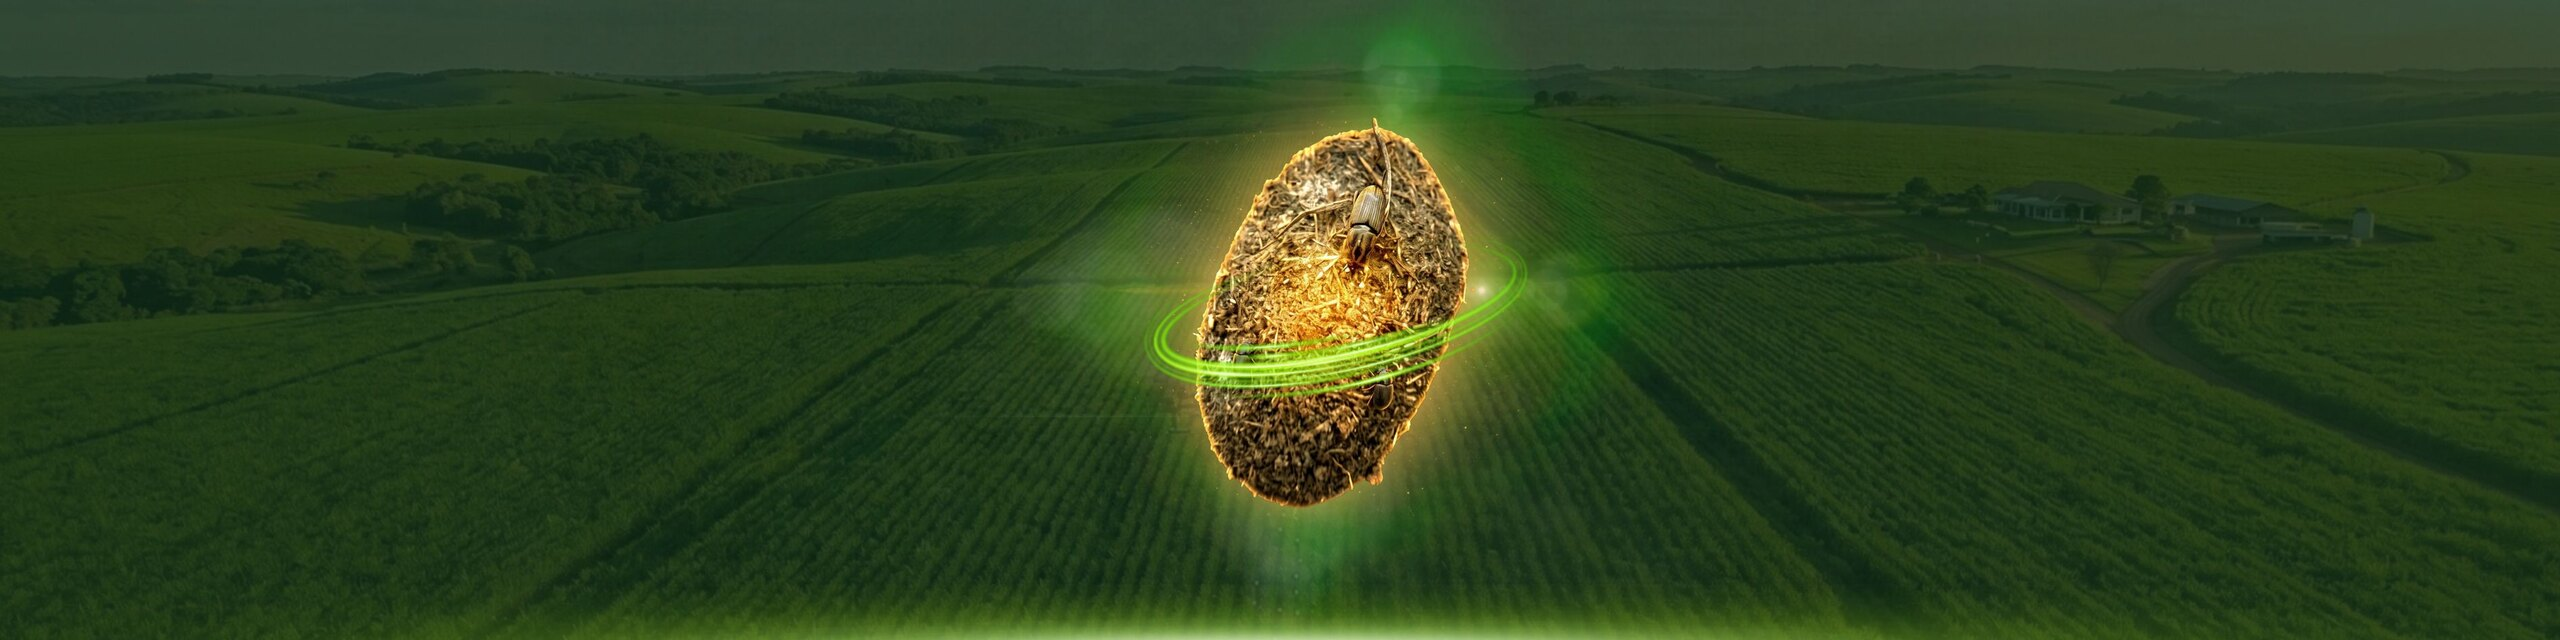
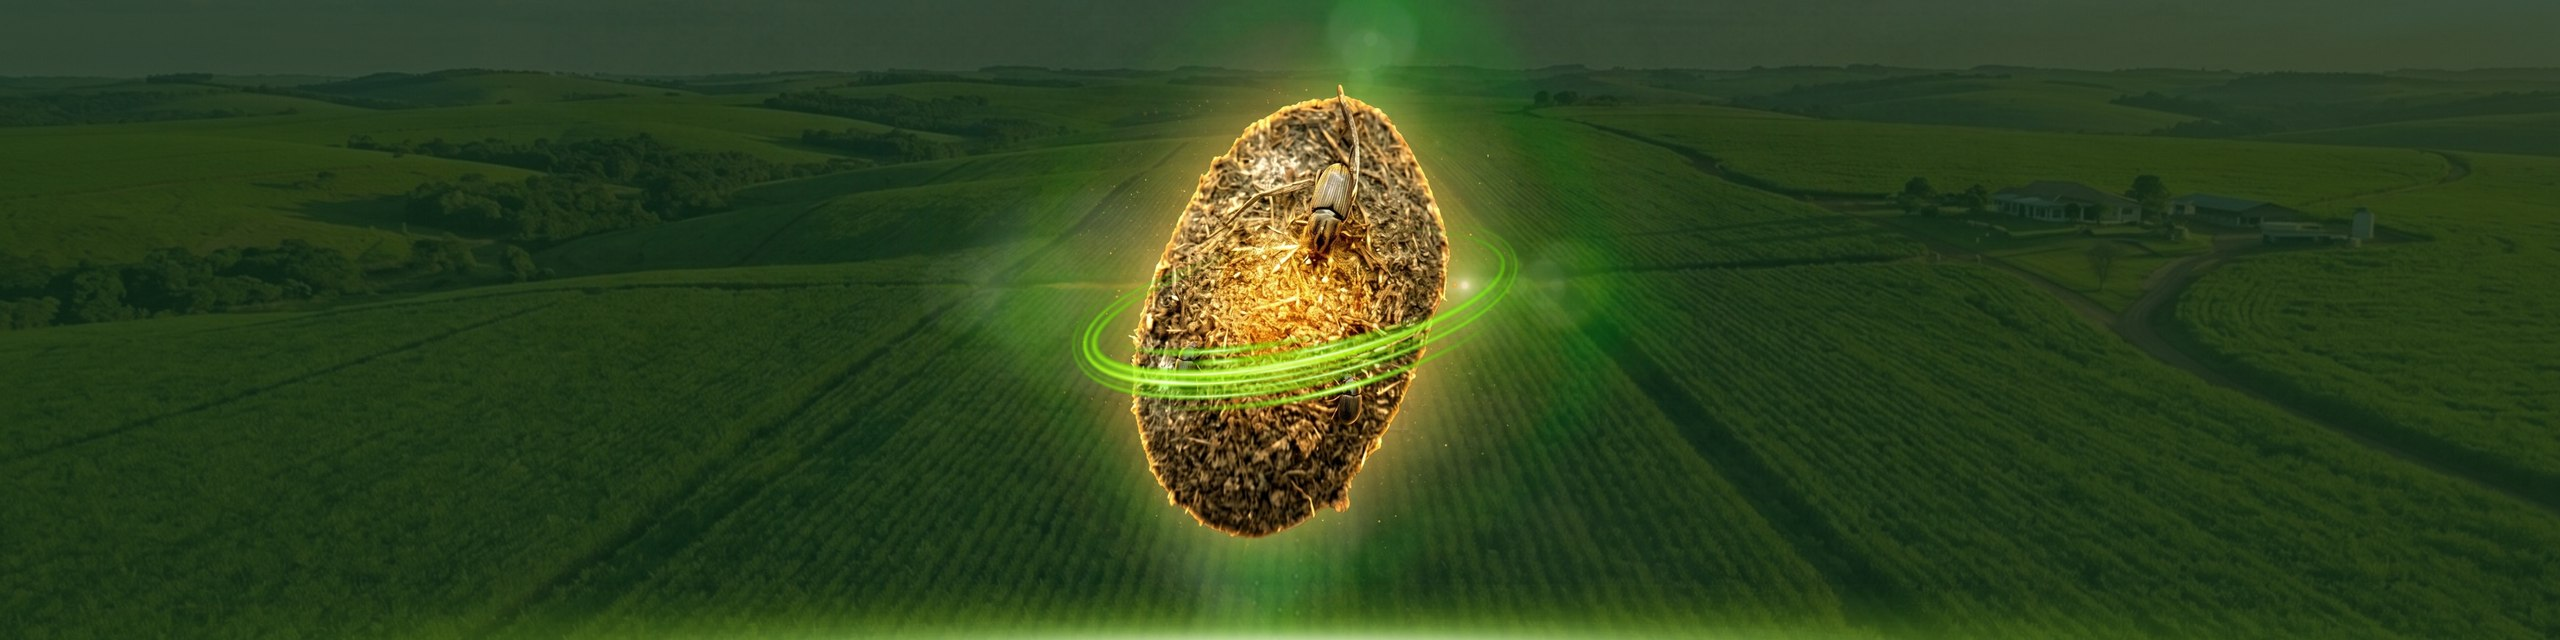
Add files via upload

Changed region(s): [[0.375, 0.0, 0.5938, 0.9688]]

diff --git a/index.html b/index.html
@@ -13,7 +13,7 @@
 <link rel="apple-touch-icon" href="apple-touch-icon.png" />
 <link rel="preconnect" href="https://fonts.googleapis.com" />
 <link rel="preconnect" href="https://fonts.gstatic.com" crossorigin />
-<link href="https://fonts.googleapis.com/css2?family=Inter:wght@400;500;600;700;800&display=swap" rel="stylesheet" />
+<link href="https://fonts.googleapis.com/css2?family=Inter:wght@200;300;400;500;600;700;800&display=swap" rel="stylesheet" />
 <style>
   :root{
     --green-deep:#1F4D3A;
@@ -43,6 +43,28 @@
     overflow-x:hidden;
   }
   h1,h2,h3,h4{line-height:1.08;letter-spacing:-.02em;margin:0;font-weight:800}
+
+  /* ================= SISTEMA v2 ================= */
+  /* títulos leves; o destaque vem do PESO, nunca de outra cor */
+  h1,h2{font-weight:200;letter-spacing:-.03em;line-height:1.12}
+  h3{font-weight:300;letter-spacing:-.025em}
+  h1 .accent,h2 .accent,h1 em,h2 em{font-style:normal;font-weight:500;color:inherit}
+  .sec-head h2{font-weight:200}
+  .sec-head p{font-weight:300}
+  .lede{font-weight:300}
+
+  /* fundo verde vivo: gradiente + halo, no lugar do verde chapado */
+  .v2bg{position:relative;isolation:isolate}
+  .v2bg::before{
+    content:"";position:absolute;inset:0;z-index:0;pointer-events:none;
+    background:
+      radial-gradient(120% 85% at 78% 10%, rgba(111,143,107,.40) 0%, rgba(46,107,79,.15) 38%, transparent 68%),
+      radial-gradient(95% 70% at 10% 98%, rgba(169,194,160,.18) 0%, transparent 58%),
+      linear-gradient(163deg,#0B241A 0%,#1B4433 46%,#23583F 78%,#0C2418 100%);
+  }
+  .v2bg>*{position:relative;z-index:1}
+
+
   p{margin:0}
   a{color:inherit;text-decoration:none}
   img{max-width:100%;display:block}
@@ -108,7 +130,7 @@
   }
   .hero-grid{display:grid;grid-template-columns:1fr;gap:40px;align-items:start;position:relative;z-index:2;max-width:840px}
   .hero h1{font-size:clamp(2.5rem,5.4vw,4.4rem);margin:22px 0 0;color:var(--green-deep)}
-  .hero h1 .accent{color:var(--green-tech);display:block}
+  .hero h1 .accent{color:inherit;font-weight:500;display:block}
   .hero .lede{
     font-size:clamp(1.05rem,1.5vw,1.28rem);color:var(--clay);
     max-width:30em;margin:26px 0 0;font-weight:400;
@@ -254,6 +276,10 @@
 
   /* a virada / categoria */
   .shift{background:var(--green-deep);color:var(--cream)}
+  /* uma cor de texto por fundo: no verde, tudo creme; no claro, tudo verde-profundo */
+  .shift .sec-head p,.tech .sec-head p,.origin p{color:rgba(244,242,237,.76)}
+  .shift .eyebrow,.tech .eyebrow,.origin .eyebrow{color:rgba(244,242,237,.70);font-weight:500;letter-spacing:.24em}
+  .shift .eyebrow::before,.tech .eyebrow::before,.origin .eyebrow::before{background:rgba(244,242,237,.45)}
   .shift .sec-head h2{color:var(--cream)}
   .shift .sec-head p{color:rgba(244,242,237,.78)}
   .shift .sec-head .eyebrow{color:var(--green-light)}
@@ -794,6 +820,51 @@
   /* Brandbook: Inter é a única fonte da marca — nenhuma exceção no CSS */
   .logo-img{height:44px;width:auto;display:block}
   .foot-brand .logo-img{height:48px}
+
+  /* ====== v2: sobrescritas de componente (precisam vir por último) ====== */
+  /* cards de vidro em vez de blocos de cor chapada */
+  .compare-card.new{background:rgba(244,242,237,.07)!important;border:1px solid rgba(244,242,237,.20)!important;
+    backdrop-filter:blur(2px)}
+  .compare-card h3{font-weight:500;letter-spacing:.18em;color:rgba(244,242,237,.62);font-size:.92rem}
+  .compare-card .big{font-weight:200;font-size:2rem;letter-spacing:-.03em}
+  .compare-card li{font-weight:300;color:rgba(244,242,237,.82)}
+  .compare-card.new li::before{background:rgba(244,242,237,.45)}
+  .split-card{background:rgba(244,242,237,.07);border:1px solid rgba(244,242,237,.20)}
+  .split-card.bait{background:rgba(244,242,237,.07);border:1px solid rgba(244,242,237,.20)}
+  .split-card .k{font-weight:300;font-size:1.7rem;letter-spacing:-.02em}
+  .split-card p,.split-card.bait p{font-weight:300;color:rgba(244,242,237,.78)}
+  .mvv-stmt,.mvv-val{background:rgba(244,242,237,.07);border:1px solid rgba(244,242,237,.20)}
+  .mvv-stmt.visao{border-left:1px solid rgba(244,242,237,.20)}
+  .mvv-head h3,.mvv-val h4{font-weight:300}
+  .mvv-stmt p,.mvv-val p{font-weight:300}
+  .mvv-stmt .lbl,.mvv-val .n{color:rgba(244,242,237,.62);font-weight:500;letter-spacing:.22em}
+
+  /* uma cor de texto por fundo: nada de palavra colorida no meio da frase */
+  .category-claim p{font-weight:300;font-size:1.32rem;line-height:1.5}
+  .category-claim .term{color:inherit;font-weight:500}
+  .origin .quote{font-weight:200;border-left:1px solid rgba(244,242,237,.35);color:rgba(244,242,237,.95)}
+  .tech .roteiro .num,.roteiro .num{color:rgba(244,242,237,.62);font-weight:500;letter-spacing:.18em}
+  .roteiro h4{font-weight:300;font-size:1.15rem}
+  .roteiro p{font-weight:300}
+  .inst-n{font-weight:200!important;letter-spacing:-.02em}
+  .inst-l{font-weight:300}
+
+  /* botões e rótulos: peso, não peso extra */
+  .btn{font-weight:500}
+  .nav-links a{font-weight:400}
+  .hero-benefits li{font-weight:400}
+  .hero-photo-tag{font-weight:300}
+  /* texto corrido numa cor só também no fundo claro */
+  .lede{color:var(--green-deep);opacity:.78}
+  .sec-head p{color:var(--green-deep);opacity:.74}
+  .shift .sec-head p,.tech .sec-head p,.origin p{color:rgba(244,242,237,.76);opacity:1}
+  .problem li,.of-step p,.feat-card p,.ev-note{color:var(--green-deep);opacity:.76}
+  .of-step h4,.feat-card h4{font-weight:400}
+  .ev-num,.case .metric,.strip-item .n{font-weight:200;letter-spacing:-.035em}
+  .ev-stat .k{font-weight:200}
+  .socio h3{font-weight:300}
+  .socio li{font-weight:300}
+
 </style>
 </head>
 <body>
@@ -811,7 +882,7 @@
         <li><a href="#categoria">Controle direcionado</a></li>
         <li><a href="#produto">BioEsférico</a></li>
         <li><a href="#onfarm">On-farm</a></li>
-        <li><a href="#contato" class="nav-cta">Falar com especialista</a></li>
+        <li><a href="https://wa.me/5516996261316?text=Ol%C3%A1%21%20Cliquei%20em%20%22Falar%20com%20um%20especialista%22%20no%20site%20da%20SmartBait%20e%20gostaria%20de%20mais%20informa%C3%A7%C3%B5es%20sobre%20o%20BioEsf%C3%A9rico." target="_blank" rel="noopener" class="nav-cta">Falar com especialista</a></li>
       </ul>
     </nav>
     <button class="nav-toggle" id="navToggle" aria-label="Abrir menu" aria-expanded="false">
@@ -829,7 +900,7 @@
       <h1>Inteligência <span class="accent">no ponto certo.</span></h1>
       <p class="lede">Controle biológico de precisão contra o <i>Sphenophorus levis</i>.</p>
       <div class="hero-actions">
-        <a href="#contato" class="btn btn-primary">Solicitar aplicação on-farm
+        <a href="https://wa.me/5516996261316?text=Ol%C3%A1%21%20Cliquei%20em%20%22Falar%20com%20um%20especialista%22%20no%20site%20da%20SmartBait%20e%20gostaria%20de%20mais%20informa%C3%A7%C3%B5es%20sobre%20o%20BioEsf%C3%A9rico." target="_blank" rel="noopener" class="btn btn-primary">Solicitar aplicação on-farm
           <svg viewBox="0 0 24 24" fill="none" stroke="currentColor" stroke-width="2.2"><path d="M5 12h14M13 6l6 6-6 6"/></svg>
         </a>
         <a href="#tecnologia" class="btn btn-ghost">Ver a tecnologia em campo</a>
@@ -873,7 +944,7 @@
 </nav>
 
 <!-- ================= TECNOLOGIA + VÍDEO ================= -->
-<section class="tech scroll-margin" id="tecnologia">
+<section class="tech v2bg scroll-margin" id="tecnologia">
   <div class="wrap">
     <div class="sec-head reveal">
       <span class="eyebrow">A tecnologia · BioEsférico</span>
@@ -974,7 +1045,7 @@
 </section>
 
 <!-- ================= A VIRADA / CATEGORIA ================= -->
-<section class="shift scroll-margin" id="categoria">
+<section class="shift v2bg scroll-margin" id="categoria">
   <div class="wrap">
     <div class="principio-grid">
       <div class="sec-head reveal">
@@ -1135,7 +1206,7 @@
     </div>
     <div class="onfarm-cta reveal">
       <p><b>Fale direto com a equipe técnica</b> para avaliar um piloto na sua operação.</p>
-      <a href="#contato" class="btn btn-primary">Solicitar diagnóstico
+      <a href="https://wa.me/5516996261316?text=Ol%C3%A1%21%20Cliquei%20em%20%22Falar%20com%20um%20especialista%22%20no%20site%20da%20SmartBait%20e%20gostaria%20de%20mais%20informa%C3%A7%C3%B5es%20sobre%20o%20BioEsf%C3%A9rico." target="_blank" rel="noopener" class="btn btn-primary">Solicitar diagnóstico
         <svg viewBox="0 0 24 24" fill="none" stroke="currentColor" stroke-width="2.2"><path d="M5 12h14M13 6l6 6-6 6"/></svg>
       </a>
     </div>
@@ -1241,7 +1312,7 @@
 </section>
 
 <!-- ================= ORIGEM / PIONEIRISMO ================= -->
-<section class="origin scroll-margin" id="origem">
+<section class="origin v2bg scroll-margin" id="origem">
   <div class="wrap">
     <div class="origin-grid">
       <div class="reveal">
@@ -1309,17 +1380,17 @@
 <!-- ================= CTA ================= -->
 <section class="cta scroll-margin" id="contato">
   <div class="wrap">
-    <div class="cta-box reveal">
+    <div class="cta-box v2bg reveal">
       <div>
         <h2>Leve o controle direcionado para o seu canavial.</h2>
         <p>Fale com nossa equipe técnica e agende uma aplicação on-farm. A prova acontece no seu campo, com acompanhamento e resultado documentado.</p>
       </div>
       <div class="cta-actions">
-        <a href="#contato" class="btn btn-primary">Falar com um especialista
-          <svg viewBox="0 0 24 24" fill="none" stroke="currentColor" stroke-width="2.2"><path d="M5 12h14M13 6l6 6-6 6"/></svg>
+        <a href="https://wa.me/5516996261316?text=Ol%C3%A1%21%20Cliquei%20em%20%22Falar%20com%20um%20especialista%22%20no%20site%20da%20SmartBait%20e%20gostaria%20de%20mais%20informa%C3%A7%C3%B5es%20sobre%20o%20BioEsf%C3%A9rico." target="_blank" rel="noopener" class="btn btn-primary">Falar no WhatsApp
+          <svg viewBox="0 0 24 24" fill="currentColor" stroke="none"><path d="M17.47 14.38c-.3-.15-1.76-.87-2.03-.97-.27-.1-.47-.15-.67.15-.2.3-.77.97-.94 1.17-.17.2-.35.22-.64.07-.3-.15-1.25-.46-2.39-1.47-.88-.79-1.48-1.76-1.65-2.06-.17-.3-.02-.46.13-.61.13-.13.3-.35.45-.52.15-.17.2-.3.3-.5.1-.2.05-.37-.02-.52-.08-.15-.67-1.61-.92-2.21-.24-.58-.49-.5-.67-.51h-.57c-.2 0-.52.07-.79.37-.27.3-1.04 1.02-1.04 2.48s1.06 2.88 1.21 3.08c.15.2 2.1 3.2 5.08 4.49.71.31 1.26.49 1.69.62.71.23 1.36.19 1.87.12.57-.09 1.76-.72 2.01-1.41.25-.69.25-1.29.17-1.41-.07-.12-.27-.2-.57-.35z"/><path d="M12.04 2C6.58 2 2.13 6.45 2.13 11.91c0 1.75.46 3.45 1.32 4.95L2 22l5.25-1.38a9.9 9.9 0 0 0 4.79 1.22h.01c5.46 0 9.91-4.45 9.91-9.91S17.5 2 12.04 2zm0 18.02h-.01a8.2 8.2 0 0 1-4.19-1.15l-.3-.18-3.12.82.83-3.04-.2-.31a8.19 8.19 0 0 1-1.26-4.37c0-4.54 3.7-8.23 8.25-8.23 2.2 0 4.27.86 5.83 2.42a8.18 8.18 0 0 1 2.41 5.82c0 4.54-3.7 8.22-8.24 8.22z"/></svg>
         </a>
         <a href="#tecnologia" class="btn btn-ghost">Ver demonstração de campo</a>
-        <span class="cta-note">Resposta da equipe técnica em até 1 dia útil</span>
+        <span class="cta-note">Atendimento direto pela equipe técnica, no WhatsApp</span>
       </div>
     </div>
   </div>
@@ -1415,9 +1486,9 @@
       <div class="foot-col">
         <h5>Contato</h5>
         <ul>
-          <li><a href="#contato">Falar com especialista</a></li>
-          <li><a href="#contato">Aplicação on-farm</a></li>
-          <li><a href="#contato">Para usinas</a></li>
+          <li><a href="https://wa.me/5516996261316?text=Ol%C3%A1%21%20Cliquei%20em%20%22Falar%20com%20um%20especialista%22%20no%20site%20da%20SmartBait%20e%20gostaria%20de%20mais%20informa%C3%A7%C3%B5es%20sobre%20o%20BioEsf%C3%A9rico." target="_blank" rel="noopener">Falar com especialista</a></li>
+          <li><a href="https://wa.me/5516996261316?text=Ol%C3%A1%21%20Cliquei%20em%20%22Falar%20com%20um%20especialista%22%20no%20site%20da%20SmartBait%20e%20gostaria%20de%20mais%20informa%C3%A7%C3%B5es%20sobre%20o%20BioEsf%C3%A9rico." target="_blank" rel="noopener">Aplicação on-farm</a></li>
+          <li><a href="https://wa.me/5516996261316?text=Ol%C3%A1%21%20Cliquei%20em%20%22Falar%20com%20um%20especialista%22%20no%20site%20da%20SmartBait%20e%20gostaria%20de%20mais%20informa%C3%A7%C3%B5es%20sobre%20o%20BioEsf%C3%A9rico." target="_blank" rel="noopener">Para usinas</a></li>
         </ul>
       </div>
     </div>
@@ -1429,7 +1500,7 @@
 </footer>
 
 <!-- ================= FLOATING CONTACT ================= -->
-<a href="#contato" class="float-contact" id="floatContact" aria-label="Falar com especialista">
+<a href="https://wa.me/5516996261316?text=Ol%C3%A1%21%20Cliquei%20em%20%22Falar%20com%20um%20especialista%22%20no%20site%20da%20SmartBait%20e%20gostaria%20de%20mais%20informa%C3%A7%C3%B5es%20sobre%20o%20BioEsf%C3%A9rico." target="_blank" rel="noopener" class="float-contact" id="floatContact" aria-label="Falar com especialista no WhatsApp">
   <svg viewBox="0 0 24 24" fill="none" stroke="currentColor" stroke-width="2"><path d="M21 11.5a8.38 8.38 0 0 1-.9 3.8 8.5 8.5 0 0 1-7.6 4.7 8.38 8.38 0 0 1-3.8-.9L3 21l1.9-5.7a8.38 8.38 0 0 1-.9-3.8 8.5 8.5 0 0 1 4.7-7.6 8.38 8.38 0 0 1 3.8-.9h.5a8.48 8.48 0 0 1 8 8v.5z"/></svg>
   <span>Fale com especialista</span>
 </a>
